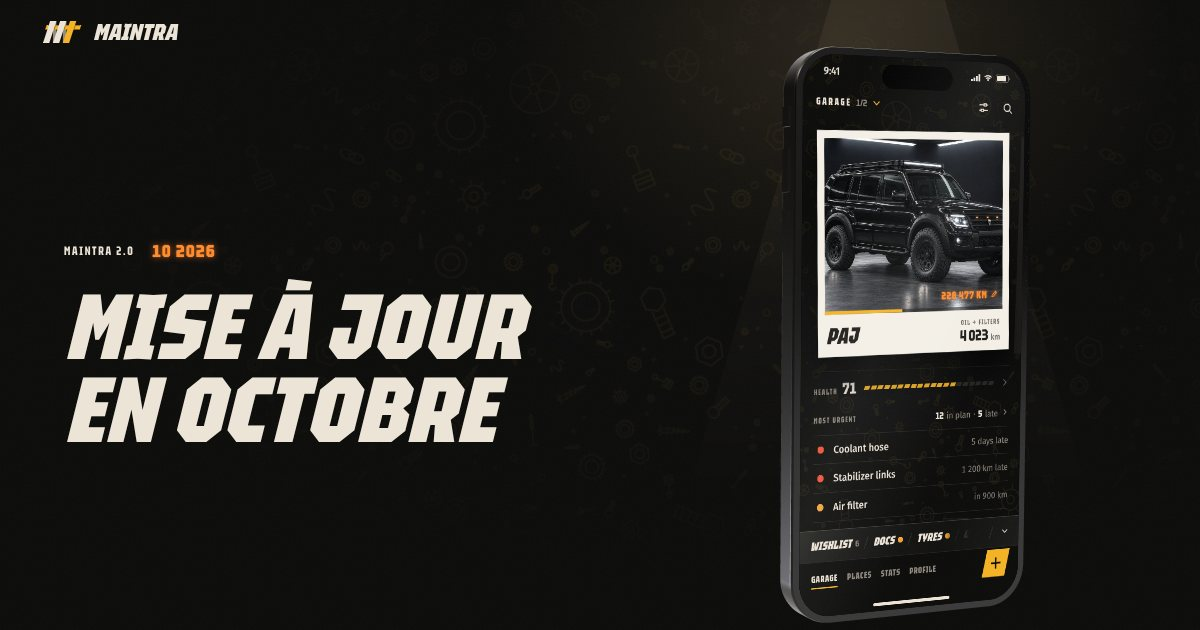
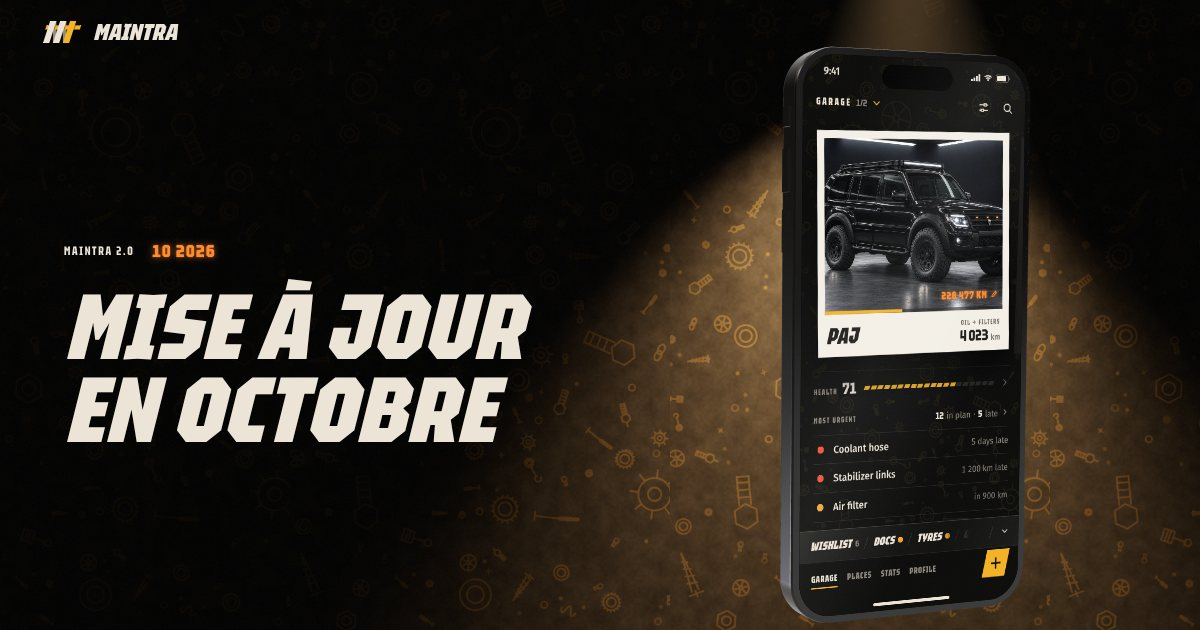
fix(home): taps reach the hero phone; share cards show the night garage
- The hero copy sits over the 3D layer now, and its empty grid was
  catching taps meant for the phone. Only the copy, the "New in 2.0"
  list and the cue take the pointer; the rest lets it through.
- The share cards are re-rendered with the garage at night and without
  the theme switch in the corner.
- Without WebGL, the hard-edged beam is gone; a soft glow stands in.

Claude-Session: https://claude.ai/code/session_016aUJLqTyLz23sov4eeqFzj

Changed region(s): [[0.4008, 0.0, 1.0, 1.0], [0.8017, 0.0, 0.8633, 0.0603]]

diff --git a/ar/index.html b/ar/index.html
@@ -23,13 +23,13 @@
 <meta property="og:title" content="Maintra 2.0 · تحديث قادم في أكتوبر">
 <meta property="og:description" content="دفتر الصيانة لمن يعتنون بسياراتهم بأنفسهم، أُعيد بناؤه من أول شاشة. جرّبه مباشرة على هذه الصفحة.">
 <meta property="og:url" content="https://maintra.me/ar/">
-<meta property="og:image" content="https://maintra.me/assets/home/og/ar.jpg?v=8eeb128a">
+<meta property="og:image" content="https://maintra.me/assets/home/og/ar.jpg?v=a6e2ddcb">
 <meta property="og:image:width" content="1200">
 <meta property="og:image:height" content="630">
 <meta property="og:image:alt" content="Maintra 2.0 · تحديث قادم في أكتوبر">
 <meta property="og:locale" content="ar_AR">
 <meta name="twitter:card" content="summary_large_image">
-<meta name="twitter:image" content="https://maintra.me/assets/home/og/ar.jpg?v=8eeb128a">
+<meta name="twitter:image" content="https://maintra.me/assets/home/og/ar.jpg?v=a6e2ddcb">
 <meta name="theme-color" content="#0B0B0A">
 <script>
 (function () {
@@ -60,7 +60,7 @@
 @font-face{font-family:'IBM Plex Sans Arabic';font-style:normal;font-weight:500;font-display:swap;src:url(/assets/home/fonts/ibm-plex-sans-arabic-arabic-500-normal.woff2?v=3f992adf) format('woff2');unicode-range:U+0600-06FF,U+0750-077F,U+0870-088E,U+0890-0891,U+0897-08E1,U+08E3-08FF,U+200C-200E,U+2010-2011,U+204F,U+2E41,U+FB50-FDFF,U+FE70-FE74,U+FE76-FEFC}
 @font-face{font-family:'IBM Plex Sans Arabic';font-style:normal;font-weight:600;font-display:swap;src:url(/assets/home/fonts/ibm-plex-sans-arabic-arabic-600-normal.woff2?v=3c2041f1) format('woff2');unicode-range:U+0600-06FF,U+0750-077F,U+0870-088E,U+0890-0891,U+0897-08E1,U+08E3-08FF,U+200C-200E,U+2010-2011,U+204F,U+2E41,U+FB50-FDFF,U+FE70-FE74,U+FE76-FEFC}
 </style>
-<link rel="stylesheet" href="/assets/home/home.css?v=3d92810e">
+<link rel="stylesheet" href="/assets/home/home.css?v=f73defce">
 <script type="module" src="/assets/home/home.js?v=1d0fedbc"></script>
 <script>setTimeout(function () { document.documentElement.classList.remove('loading'); }, 7000);</script>
 <noscript><style>html.loading .loader{display:none}</style></noscript>

diff --git a/uk/index.html b/uk/index.html
@@ -23,13 +23,13 @@
 <meta property="og:title" content="Maintra 2.0 · Оновлення вже в жовтні">
 <meta property="og:description" content="Сервісна книжка для тих, хто сам дбає про своє авто. Перероблена, починаючи з першого екрана. Спробуй просто на сторінці.">
 <meta property="og:url" content="https://maintra.me/uk/">
-<meta property="og:image" content="https://maintra.me/assets/home/og/uk.jpg?v=87c832ff">
+<meta property="og:image" content="https://maintra.me/assets/home/og/uk.jpg?v=2f5c5afa">
 <meta property="og:image:width" content="1200">
 <meta property="og:image:height" content="630">
 <meta property="og:image:alt" content="Maintra 2.0 · Оновлення вже в жовтні">
 <meta property="og:locale" content="uk_UA">
 <meta name="twitter:card" content="summary_large_image">
-<meta name="twitter:image" content="https://maintra.me/assets/home/og/uk.jpg?v=87c832ff">
+<meta name="twitter:image" content="https://maintra.me/assets/home/og/uk.jpg?v=2f5c5afa">
 <meta name="theme-color" content="#0B0B0A">
 <script>
 (function () {
@@ -57,7 +57,7 @@
 <link rel="preload" href="/assets/journey/fonts/firasans-600-cyrillic.woff2" as="font" type="font/woff2" crossorigin>
 <link rel="stylesheet" href="/assets/home/fonts.css?v=3a8a3f95">
 
-<link rel="stylesheet" href="/assets/home/home.css?v=3d92810e">
+<link rel="stylesheet" href="/assets/home/home.css?v=f73defce">
 <script type="module" src="/assets/home/home.js?v=1d0fedbc"></script>
 <script>setTimeout(function () { document.documentElement.classList.remove('loading'); }, 7000);</script>
 <noscript><style>html.loading .loader{display:none}</style></noscript>

diff --git a/fr/index.html b/fr/index.html
@@ -23,13 +23,13 @@
 <meta property="og:title" content="Maintra 2.0 · La mise à jour arrive en octobre">
 <meta property="og:description" content="Le carnet d'entretien pour ceux qui s'occupent eux-mêmes de leur voiture, refait à neuf dès le premier écran. Essayez-le directement sur la page.">
 <meta property="og:url" content="https://maintra.me/fr/">
-<meta property="og:image" content="https://maintra.me/assets/home/og/fr.jpg?v=8774c373">
+<meta property="og:image" content="https://maintra.me/assets/home/og/fr.jpg?v=fc378870">
 <meta property="og:image:width" content="1200">
 <meta property="og:image:height" content="630">
 <meta property="og:image:alt" content="Maintra 2.0 · La mise à jour arrive en octobre">
 <meta property="og:locale" content="fr_FR">
 <meta name="twitter:card" content="summary_large_image">
-<meta name="twitter:image" content="https://maintra.me/assets/home/og/fr.jpg?v=8774c373">
+<meta name="twitter:image" content="https://maintra.me/assets/home/og/fr.jpg?v=fc378870">
 <meta name="theme-color" content="#0B0B0A">
 <script>
 (function () {
@@ -54,7 +54,7 @@
 <link rel="preload" href="/assets/journey/fonts/firasans-600-latin.woff2" as="font" type="font/woff2" crossorigin>
 <link rel="stylesheet" href="/assets/home/fonts.css?v=3a8a3f95">
 
-<link rel="stylesheet" href="/assets/home/home.css?v=3d92810e">
+<link rel="stylesheet" href="/assets/home/home.css?v=f73defce">
 <script type="module" src="/assets/home/home.js?v=1d0fedbc"></script>
 <script>setTimeout(function () { document.documentElement.classList.remove('loading'); }, 7000);</script>
 <noscript><style>html.loading .loader{display:none}</style></noscript>

diff --git a/ja/index.html b/ja/index.html
@@ -23,13 +23,13 @@
 <meta property="og:title" content="Maintra 2.0 · 10月にアップデート">
 <meta property="og:description" content="愛車の面倒を自分でみる人のための整備手帳を、最初の画面から作り直しました。このページでそのまま試せます。">
 <meta property="og:url" content="https://maintra.me/ja/">
-<meta property="og:image" content="https://maintra.me/assets/home/og/ja.jpg?v=06e8e805">
+<meta property="og:image" content="https://maintra.me/assets/home/og/ja.jpg?v=14829071">
 <meta property="og:image:width" content="1200">
 <meta property="og:image:height" content="630">
 <meta property="og:image:alt" content="Maintra 2.0 · 10月にアップデート">
 <meta property="og:locale" content="ja_JP">
 <meta name="twitter:card" content="summary_large_image">
-<meta name="twitter:image" content="https://maintra.me/assets/home/og/ja.jpg?v=06e8e805">
+<meta name="twitter:image" content="https://maintra.me/assets/home/og/ja.jpg?v=14829071">
 <meta name="theme-color" content="#0B0B0A">
 <script>
 (function () {
@@ -54,7 +54,7 @@
 <link rel="preload" href="/assets/journey/fonts/firasans-600-latin.woff2" as="font" type="font/woff2" crossorigin>
 <link rel="stylesheet" href="/assets/home/fonts.css?v=3a8a3f95">
 
-<link rel="stylesheet" href="/assets/home/home.css?v=3d92810e">
+<link rel="stylesheet" href="/assets/home/home.css?v=f73defce">
 <script type="module" src="/assets/home/home.js?v=1d0fedbc"></script>
 <script>setTimeout(function () { document.documentElement.classList.remove('loading'); }, 7000);</script>
 <noscript><style>html.loading .loader{display:none}</style></noscript>

diff --git a/it/index.html b/it/index.html
@@ -23,13 +23,13 @@
 <meta property="og:title" content="Maintra 2.0 · L'aggiornamento arriva a ottobre">
 <meta property="og:description" content="Il libretto di manutenzione per chi alla propria auto ci pensa da sé, rifatto fin dalla prima schermata. Provalo direttamente sulla pagina.">
 <meta property="og:url" content="https://maintra.me/it/">
-<meta property="og:image" content="https://maintra.me/assets/home/og/it.jpg?v=bc9e7d1f">
+<meta property="og:image" content="https://maintra.me/assets/home/og/it.jpg?v=8823f3ba">
 <meta property="og:image:width" content="1200">
 <meta property="og:image:height" content="630">
 <meta property="og:image:alt" content="Maintra 2.0 · L'aggiornamento arriva a ottobre">
 <meta property="og:locale" content="it_IT">
 <meta name="twitter:card" content="summary_large_image">
-<meta name="twitter:image" content="https://maintra.me/assets/home/og/it.jpg?v=bc9e7d1f">
+<meta name="twitter:image" content="https://maintra.me/assets/home/og/it.jpg?v=8823f3ba">
 <meta name="theme-color" content="#0B0B0A">
 <script>
 (function () {
@@ -54,7 +54,7 @@
 <link rel="preload" href="/assets/journey/fonts/firasans-600-latin.woff2" as="font" type="font/woff2" crossorigin>
 <link rel="stylesheet" href="/assets/home/fonts.css?v=3a8a3f95">
 
-<link rel="stylesheet" href="/assets/home/home.css?v=3d92810e">
+<link rel="stylesheet" href="/assets/home/home.css?v=f73defce">
 <script type="module" src="/assets/home/home.js?v=1d0fedbc"></script>
 <script>setTimeout(function () { document.documentElement.classList.remove('loading'); }, 7000);</script>
 <noscript><style>html.loading .loader{display:none}</style></noscript>

diff --git a/pl/index.html b/pl/index.html
@@ -23,13 +23,13 @@
 <meta property="og:title" content="Maintra 2.0 · Aktualizacja już w październiku">
 <meta property="og:description" content="Książka serwisowa dla tych, którzy sami dbają o swoje auto. Zbudowana od nowa, od pierwszego ekranu. Wypróbuj ją od razu na stronie.">
 <meta property="og:url" content="https://maintra.me/pl/">
-<meta property="og:image" content="https://maintra.me/assets/home/og/pl.jpg?v=3165c55e">
+<meta property="og:image" content="https://maintra.me/assets/home/og/pl.jpg?v=22586938">
 <meta property="og:image:width" content="1200">
 <meta property="og:image:height" content="630">
 <meta property="og:image:alt" content="Maintra 2.0 · Aktualizacja już w październiku">
 <meta property="og:locale" content="pl_PL">
 <meta name="twitter:card" content="summary_large_image">
-<meta name="twitter:image" content="https://maintra.me/assets/home/og/pl.jpg?v=3165c55e">
+<meta name="twitter:image" content="https://maintra.me/assets/home/og/pl.jpg?v=22586938">
 <meta name="theme-color" content="#0B0B0A">
 <script>
 (function () {
@@ -54,7 +54,7 @@
 <link rel="preload" href="/assets/journey/fonts/firasans-600-latin.woff2" as="font" type="font/woff2" crossorigin>
 <link rel="stylesheet" href="/assets/home/fonts.css?v=3a8a3f95">
 
-<link rel="stylesheet" href="/assets/home/home.css?v=3d92810e">
+<link rel="stylesheet" href="/assets/home/home.css?v=f73defce">
 <script type="module" src="/assets/home/home.js?v=1d0fedbc"></script>
 <script>setTimeout(function () { document.documentElement.classList.remove('loading'); }, 7000);</script>
 <noscript><style>html.loading .loader{display:none}</style></noscript>

diff --git a/ko/index.html b/ko/index.html
@@ -23,13 +23,13 @@
 <meta property="og:title" content="Maintra 2.0 · 10월 업데이트 예정">
 <meta property="og:description" content="내 차를 직접 챙기는 사람을 위한 정비 수첩, 첫 화면부터 새로 만들었어요. 이 페이지에서 바로 써 보세요.">
 <meta property="og:url" content="https://maintra.me/ko/">
-<meta property="og:image" content="https://maintra.me/assets/home/og/ko.jpg?v=751b0a3f">
+<meta property="og:image" content="https://maintra.me/assets/home/og/ko.jpg?v=1bd5de6c">
 <meta property="og:image:width" content="1200">
 <meta property="og:image:height" content="630">
 <meta property="og:image:alt" content="Maintra 2.0 · 10월 업데이트 예정">
 <meta property="og:locale" content="ko_KR">
 <meta name="twitter:card" content="summary_large_image">
-<meta name="twitter:image" content="https://maintra.me/assets/home/og/ko.jpg?v=751b0a3f">
+<meta name="twitter:image" content="https://maintra.me/assets/home/og/ko.jpg?v=1bd5de6c">
 <meta name="theme-color" content="#0B0B0A">
 <script>
 (function () {
@@ -54,7 +54,7 @@
 <link rel="preload" href="/assets/journey/fonts/firasans-600-latin.woff2" as="font" type="font/woff2" crossorigin>
 <link rel="stylesheet" href="/assets/home/fonts.css?v=3a8a3f95">
 
-<link rel="stylesheet" href="/assets/home/home.css?v=3d92810e">
+<link rel="stylesheet" href="/assets/home/home.css?v=f73defce">
 <script type="module" src="/assets/home/home.js?v=1d0fedbc"></script>
 <script>setTimeout(function () { document.documentElement.classList.remove('loading'); }, 7000);</script>
 <noscript><style>html.loading .loader{display:none}</style></noscript>

diff --git a/de/index.html b/de/index.html
@@ -23,13 +23,13 @@
 <meta property="og:title" content="Maintra 2.0 · Update kommt im Oktober">
 <meta property="og:description" content="Das Serviceheft für alle, die sich selbst um ihr Auto kümmern, vom ersten Bildschirm an neu gebaut. Probier es direkt hier auf der Seite aus.">
 <meta property="og:url" content="https://maintra.me/de/">
-<meta property="og:image" content="https://maintra.me/assets/home/og/de.jpg?v=84ea958c">
+<meta property="og:image" content="https://maintra.me/assets/home/og/de.jpg?v=c5831a7e">
 <meta property="og:image:width" content="1200">
 <meta property="og:image:height" content="630">
 <meta property="og:image:alt" content="Maintra 2.0 · Update kommt im Oktober">
 <meta property="og:locale" content="de_DE">
 <meta name="twitter:card" content="summary_large_image">
-<meta name="twitter:image" content="https://maintra.me/assets/home/og/de.jpg?v=84ea958c">
+<meta name="twitter:image" content="https://maintra.me/assets/home/og/de.jpg?v=c5831a7e">
 <meta name="theme-color" content="#0B0B0A">
 <script>
 (function () {
@@ -54,7 +54,7 @@
 <link rel="preload" href="/assets/journey/fonts/firasans-600-latin.woff2" as="font" type="font/woff2" crossorigin>
 <link rel="stylesheet" href="/assets/home/fonts.css?v=3a8a3f95">
 
-<link rel="stylesheet" href="/assets/home/home.css?v=3d92810e">
+<link rel="stylesheet" href="/assets/home/home.css?v=f73defce">
 <script type="module" src="/assets/home/home.js?v=1d0fedbc"></script>
 <script>setTimeout(function () { document.documentElement.classList.remove('loading'); }, 7000);</script>
 <noscript><style>html.loading .loader{display:none}</style></noscript>

diff --git a/es/index.html b/es/index.html
@@ -23,13 +23,13 @@
 <meta property="og:title" content="Maintra 2.0 · Actualización en octubre">
 <meta property="og:description" content="El libro de mantenimiento para quienes cuidan su propio auto, rehecho desde la primera pantalla. Pruébalo en esta misma página.">
 <meta property="og:url" content="https://maintra.me/es/">
-<meta property="og:image" content="https://maintra.me/assets/home/og/es.jpg?v=39b56cdf">
+<meta property="og:image" content="https://maintra.me/assets/home/og/es.jpg?v=35fe8d38">
 <meta property="og:image:width" content="1200">
 <meta property="og:image:height" content="630">
 <meta property="og:image:alt" content="Maintra 2.0 · Actualización en octubre">
 <meta property="og:locale" content="es_ES">
 <meta name="twitter:card" content="summary_large_image">
-<meta name="twitter:image" content="https://maintra.me/assets/home/og/es.jpg?v=39b56cdf">
+<meta name="twitter:image" content="https://maintra.me/assets/home/og/es.jpg?v=35fe8d38">
 <meta name="theme-color" content="#0B0B0A">
 <script>
 (function () {
@@ -54,7 +54,7 @@
 <link rel="preload" href="/assets/journey/fonts/firasans-600-latin.woff2" as="font" type="font/woff2" crossorigin>
 <link rel="stylesheet" href="/assets/home/fonts.css?v=3a8a3f95">
 
-<link rel="stylesheet" href="/assets/home/home.css?v=3d92810e">
+<link rel="stylesheet" href="/assets/home/home.css?v=f73defce">
 <script type="module" src="/assets/home/home.js?v=1d0fedbc"></script>
 <script>setTimeout(function () { document.documentElement.classList.remove('loading'); }, 7000);</script>
 <noscript><style>html.loading .loader{display:none}</style></noscript>

diff --git a/index.html b/index.html
@@ -23,13 +23,13 @@
 <meta property="og:title" content="Maintra 2.0 · Update coming this October">
 <meta property="og:description" content="The service book for people who look after their own cars, rebuilt from the first screen. Try it right on the page.">
 <meta property="og:url" content="https://maintra.me/">
-<meta property="og:image" content="https://maintra.me/assets/home/og/en.jpg?v=f6b4e384">
+<meta property="og:image" content="https://maintra.me/assets/home/og/en.jpg?v=4a7cb48e">
 <meta property="og:image:width" content="1200">
 <meta property="og:image:height" content="630">
 <meta property="og:image:alt" content="Maintra 2.0 · Update coming this October">
 <meta property="og:locale" content="en_US">
 <meta name="twitter:card" content="summary_large_image">
-<meta name="twitter:image" content="https://maintra.me/assets/home/og/en.jpg?v=f6b4e384">
+<meta name="twitter:image" content="https://maintra.me/assets/home/og/en.jpg?v=4a7cb48e">
 <meta name="theme-color" content="#0B0B0A">
 <script>
 (function () {
@@ -86,7 +86,7 @@
 <link rel="preload" href="/assets/journey/fonts/firasans-600-latin.woff2" as="font" type="font/woff2" crossorigin>
 <link rel="stylesheet" href="/assets/home/fonts.css?v=3a8a3f95">
 
-<link rel="stylesheet" href="/assets/home/home.css?v=3d92810e">
+<link rel="stylesheet" href="/assets/home/home.css?v=f73defce">
 <script type="module" src="/assets/home/home.js?v=1d0fedbc"></script>
 <script>setTimeout(function () { document.documentElement.classList.remove('loading'); }, 7000);</script>
 <noscript><style>html.loading .loader{display:none}</style></noscript>

diff --git a/zh/index.html b/zh/index.html
@@ -23,13 +23,13 @@
 <meta property="og:title" content="Maintra 2.0 · 今年 10 月更新">
 <meta property="og:description" content="一本保养手册，写给用心养车的人，这次从第一屏开始重做。在页面上就能直接试用。">
 <meta property="og:url" content="https://maintra.me/zh/">
-<meta property="og:image" content="https://maintra.me/assets/home/og/zh.jpg?v=b5750df8">
+<meta property="og:image" content="https://maintra.me/assets/home/og/zh.jpg?v=0ebf6edb">
 <meta property="og:image:width" content="1200">
 <meta property="og:image:height" content="630">
 <meta property="og:image:alt" content="Maintra 2.0 · 今年 10 月更新">
 <meta property="og:locale" content="zh_CN">
 <meta name="twitter:card" content="summary_large_image">
-<meta name="twitter:image" content="https://maintra.me/assets/home/og/zh.jpg?v=b5750df8">
+<meta name="twitter:image" content="https://maintra.me/assets/home/og/zh.jpg?v=0ebf6edb">
 <meta name="theme-color" content="#0B0B0A">
 <script>
 (function () {
@@ -54,7 +54,7 @@
 <link rel="preload" href="/assets/journey/fonts/firasans-600-latin.woff2" as="font" type="font/woff2" crossorigin>
 <link rel="stylesheet" href="/assets/home/fonts.css?v=3a8a3f95">
 
-<link rel="stylesheet" href="/assets/home/home.css?v=3d92810e">
+<link rel="stylesheet" href="/assets/home/home.css?v=f73defce">
 <script type="module" src="/assets/home/home.js?v=1d0fedbc"></script>
 <script>setTimeout(function () { document.documentElement.classList.remove('loading'); }, 7000);</script>
 <noscript><style>html.loading .loader{display:none}</style></noscript>

diff --git a/assets/home/home.css b/assets/home/home.css
@@ -379,8 +379,10 @@ html.room .hero-bg > * { display: none; }
 .h1-in { display: block; }
 .hero .lede { max-width: 36ch; }
 .note { font-size: clamp(14px, .2vw + 11.5px, 17px); line-height: 1.5; color: var(--text2); max-width: 52ch; }
-.hero-phone { pointer-events: none; }
-.hero-phone .cue { pointer-events: auto; }
+/* the copy is over the 3D layer, the phone under it: only what is pressable
+   in the copy takes the pointer, everything else lets it through to the phone */
+.hero-in, .hero-phone { pointer-events: none; }
+.hero-copy, .hero-spec, .hero-phone .cue { pointer-events: auto; }
 .hero-phone { position: relative; height: min(72svh, 1060px); min-height: 440px; display: flex; flex-direction: column; align-items: center; justify-content: center; }
 .slot { height: 100%; aspect-ratio: 414 / 868; max-width: 100%; }
 .hero-phone .slot { height: calc(100% - 48px); }
